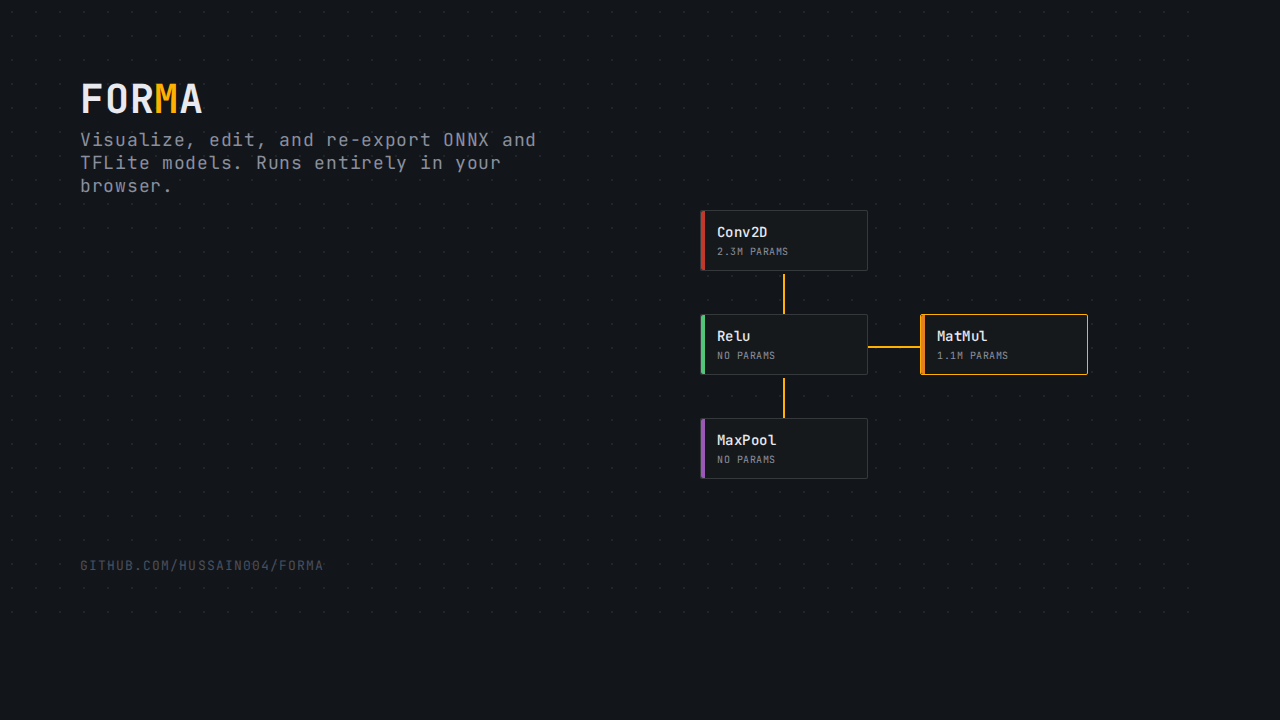
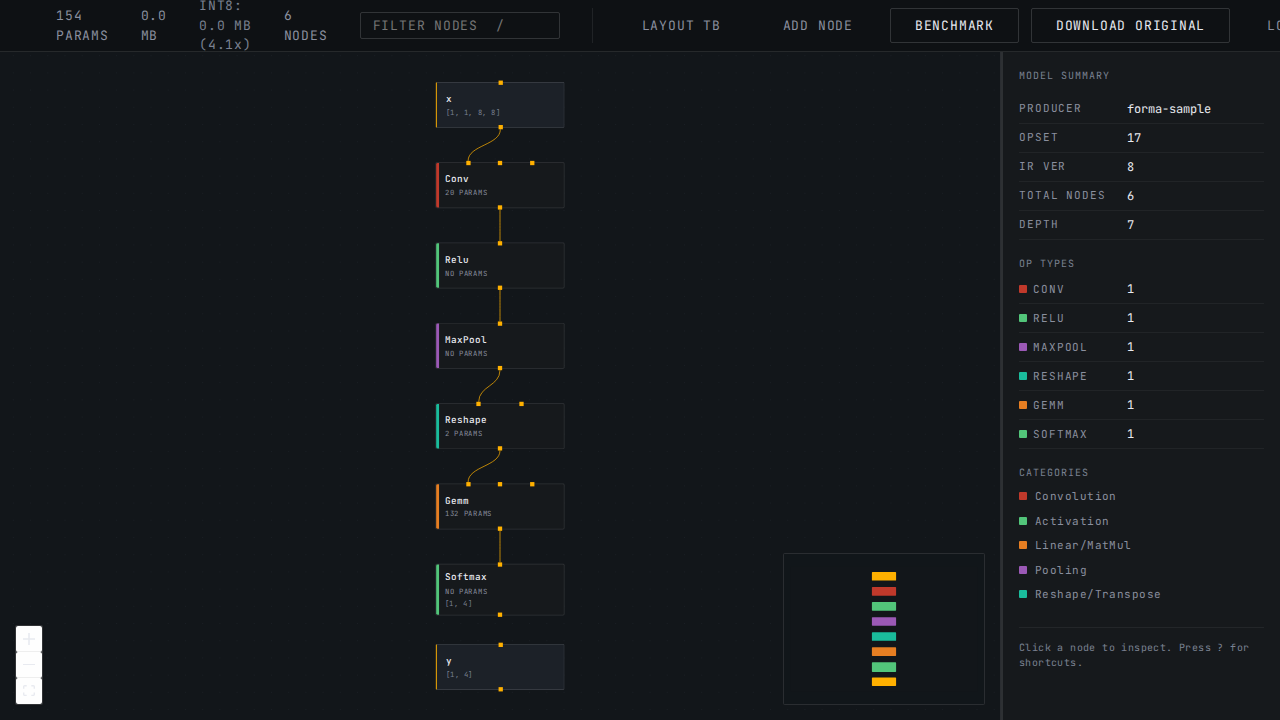
Replace the mockup OG image with a real screenshot of the app
Now that the sample model exists, the social preview card can show the
actual product instead of a hand-built HTML mockup of what it might
look like.

diff --git a/PROGRESS.md b/PROGRESS.md
@@ -51,6 +51,8 @@ Legend: [ ] not started, [~] in progress, [x] done, [-] skipped (needs a decisio
 
 (most recent first)
 
+- Replaced the static og-image.png mockup (built before a sample model existed) with a real screenshot of the app running the actual bundled sample model -- closes the gap noted in the very first log entry.
+
 - Bundled a small (1.2 KB) hand-encoded sample model at public/sample-model.onnx -- a real, runnable 6-node conv classifier (Conv -> Relu -> MaxPool -> Reshape -> Gemm -> Softmax) chosen specifically to hit five distinct op categories at once, so the first thing a new visitor loads showcases the category-color legend instead of a single gray/green node. Verified it both loads and actually runs through onnxruntime-web's Benchmark, not just parses. The empty state now also has a FORMA wordmark, a one-line pitch (the "never leaves this device" privacy claim only became literally true after the font self-hosting fix earlier), a "Load sample model" button wired to fetch + the same onModelLoaded path as a real drop, and a GitHub link -- previously a first-time visitor with no .onnx file handy had zero path forward and would just bounce off a bare "drop .onnx or .tflite model" line.
 
 - Added a `?`-toggled keyboard shortcuts overlay listing all seven existing shortcuts (`/`, click, Ctrl+Click, drag-to-rewire, Delete, Ctrl+Z, Esc), closable via Esc or a Close button. Filter input placeholder now reads "FILTER NODES  /" with a title attribute, and the default Layer Inspector panel (Model Summary, shown whenever no node is selected) gets a "Click a node to inspect. Press ? for shortcuts." hint line. None of these shortcuts were new -- they existed since earlier versions but had zero in-app discoverability.